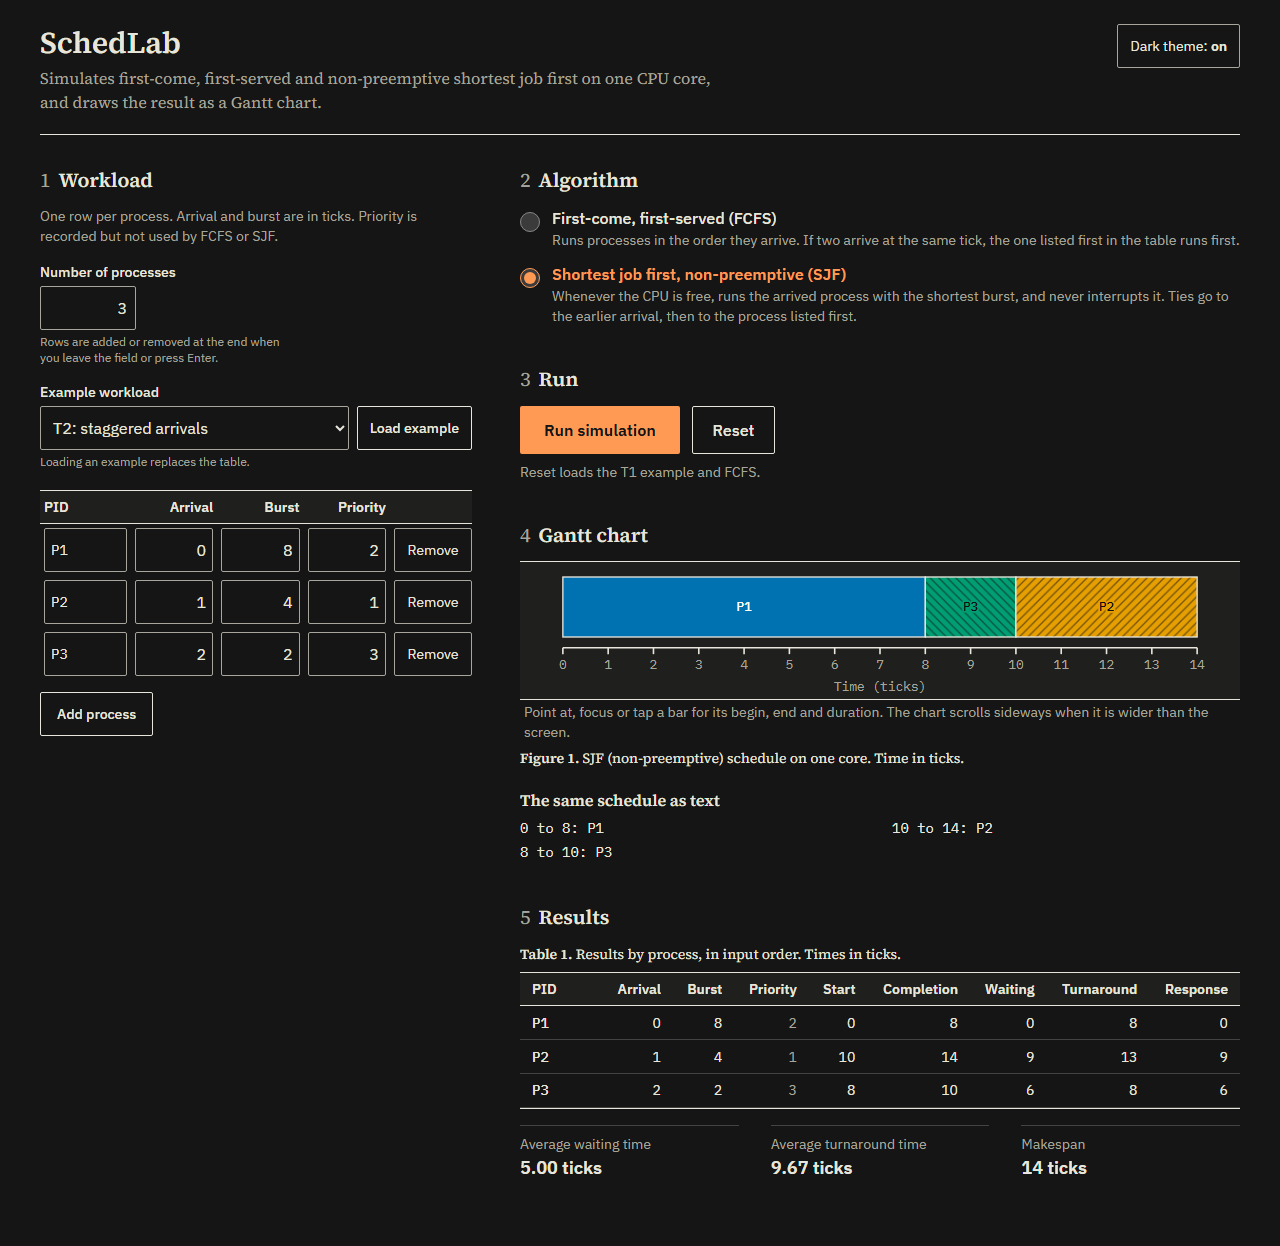
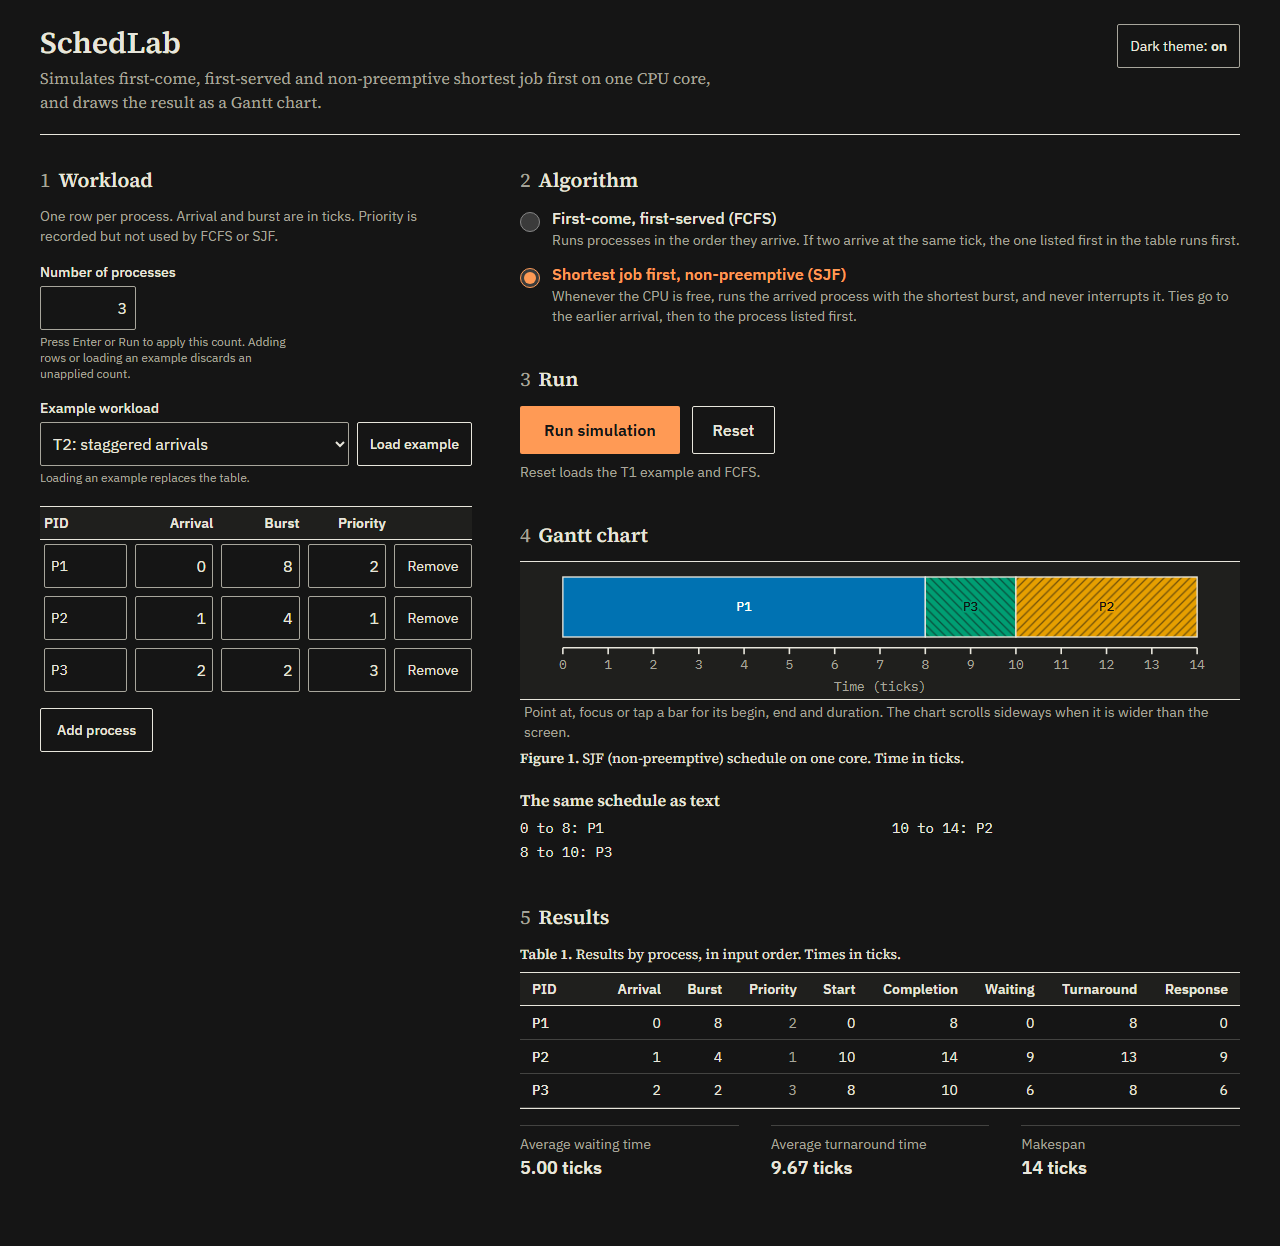
docs(web): refresh P0 evidence after independent review fixes

Changed region(s): [[0.0312, 0.2745, 0.375, 0.61], [0.2812, 0.3355, 0.375, 0.366]]

diff --git a/docs/p0-verification.md b/docs/p0-verification.md
@@ -15,10 +15,10 @@ PowerShell, Windows, MSVC/Visual Studio 2026, Node 22.22.3, Chromium via Playwri
 | `cmake --build build/core --config Release` | exit 0 |
 | `ctest --test-dir build/core --output-on-failure -C Release` | 13/13 CTest entries passed |
 | `npm install` in `web/` | exit 0; zero audit vulnerabilities reported |
-| `npm test` | 317/317 tests, 13 files passed, including native/WASM parity |
+| `npm test` | 319/319 tests, 13 files passed, including native/WASM parity |
 | `npm run typecheck` | exit 0 |
 | `npm run build` | exit 0 |
-| `npm run test:e2e` | 9/9 Chromium tests passed against the production build |
+| `npm run test:e2e` | 13/13 Chromium tests passed against the production build |
 | frontend skill `scripts/check_ui.mjs`, 375/1280 px | zero page overflow, console errors or DOM issues; all 23 visited focus stops visibly focused |
 
 The checker lives at `.claude/skills/senior-frontend/scripts/check_ui.mjs`; see the
@@ -47,8 +47,18 @@ are build/runner messages; normal application browser-console checks were clean.
 - Mobile Run: showing an inline numeric error on blur moved the button between
   pointer-down and pointer-up. Event tracing showed the release/click land on the
   Run section heading, with no form submission. Both 375 px theme cases failed.
-  Blur now leaves validation to Run when focus moves to the submit button; those
-  cases pass and the first invalid field receives focus.
+  Independent review found the same problem with Add and algorithm controls, and
+  with count-field blur resizing before Run/Add/Load. Blur now defers feedback when
+  focus moves to an action. Counts apply on Enter or Run, and Run uses the exact
+  resized editor rows and version. Regressions for direct count-to-0/1 Run and
+  field/count-to-Add/algorithm/Load all failed first and now pass.
+- Idle hit area: the unfilled idle rectangle did not receive hover or tap events
+  inside its outline. Both interactions timed out before the rectangle received
+  an explicit pointer hit area, preserving its unfilled dashed appearance.
+- Undo cap: growing back to 200 rows after removing 199, then Undo, restored 399
+  rows; repetitions could grow the editor without bound. Both add-button and
+  count-growth regressions failed first. Adding rows now expires the previous
+  removal Undo; ordinary field edits preserve it. No current rows are truncated.
 
 PR 2 was independently reviewed and merged at `393670d`, with fixes `1c168a7` and
 `cc1af32`. Its reviewer independently reran 13 CTest entries, 177 bridge Vitest

diff --git a/README.md b/README.md
@@ -43,8 +43,10 @@ supported. Keep the repository and installed dependencies for an offline rebuild
 
 The page opens with T1 in the editor. Run displays results; editing hides the old
 result. Switching algorithms recomputes a displayed result. Reset loads T1 with
-FCFS. Change the process count with Enter or by leaving the field. Removal offers
-one level of Undo. Focus a Gantt bar and use Left/Right, Home or End to inspect other
+FCFS. Apply a process count with Enter or Run; a count draft does not resize the table
+on blur. Adding rows or loading an example discards an unapplied
+count. Removal offers one level of Undo, which expires when rows are added or an
+example is loaded. Field edits preserve Undo. Focus a Gantt bar and use Left/Right, Home or End to inspect other
 bars; Escape dismisses its readout. Hover and touch also expose exact intervals.
 
 ## Run every check
